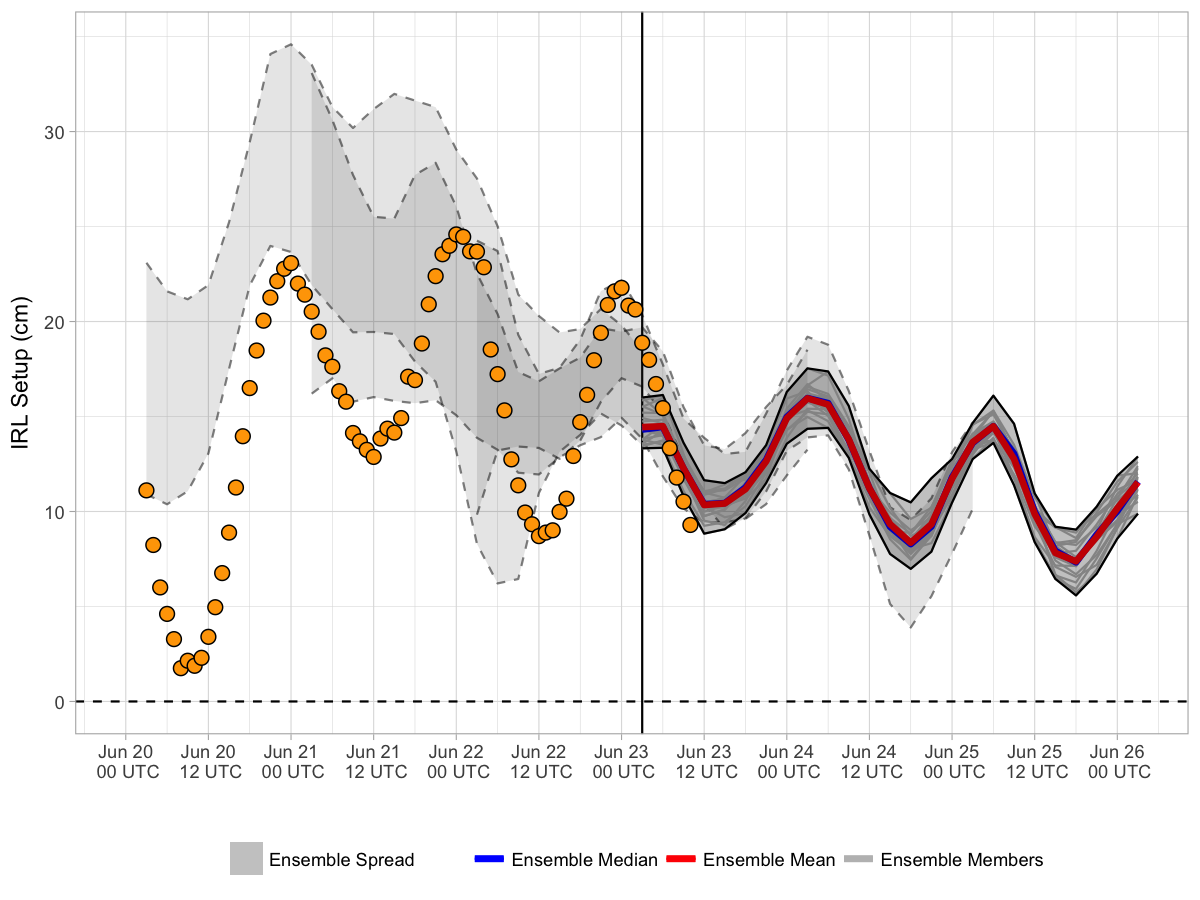
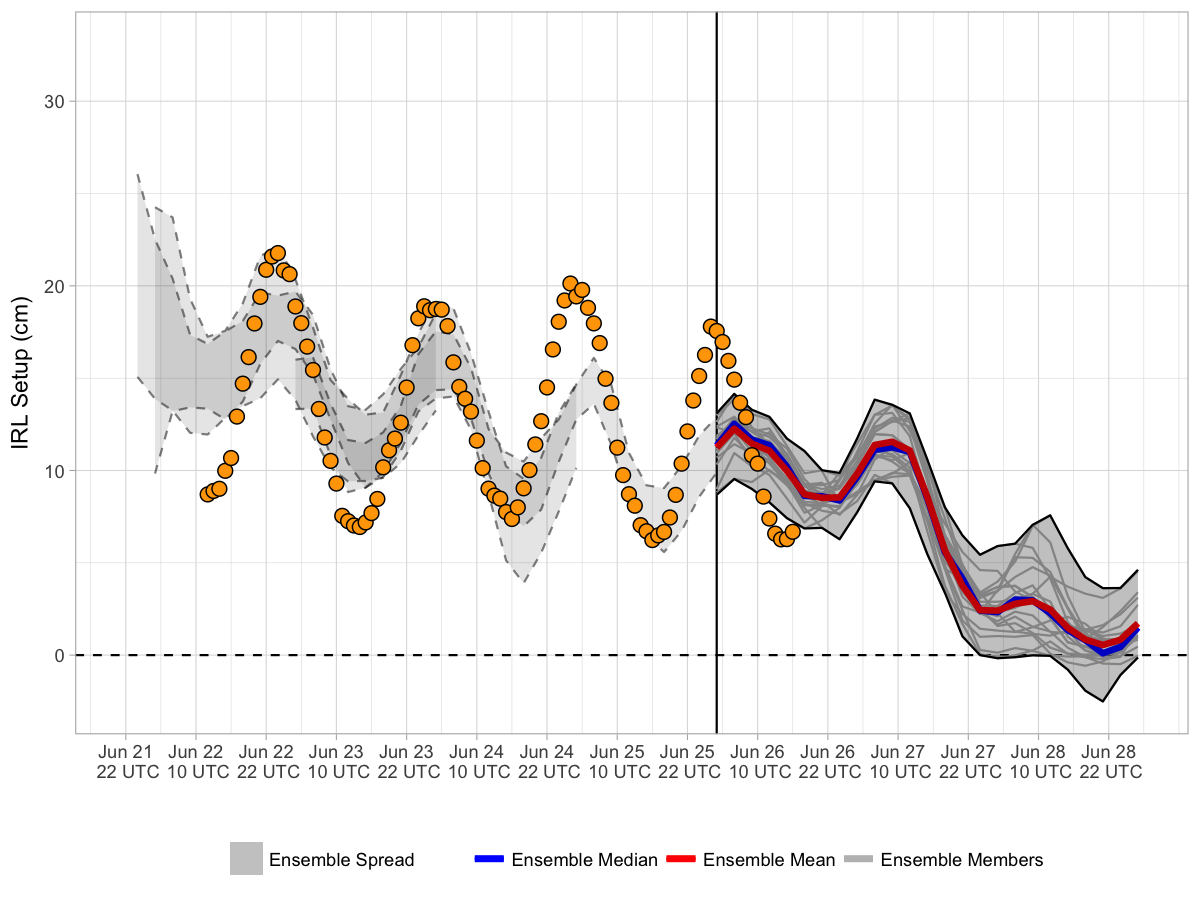
20170626 forecast update

diff --git a/docs/index.md b/docs/index.md
@@ -3,7 +3,7 @@ Current Forecast
 
 [![](img/raw_setup.png)](https://bhlmn.github.io/IRLSetup/img/raw_setup.png)
 
-> Forecast valid 2017-06-23 06:46:02.
+> Forecast valid 2017-06-26 12:24:30.
 
 Explanation
 -----------
@@ -15,7 +15,7 @@ water elevation in the northern IRL (near Titusville), and negative
 setup indicates the increase elevation in the southern IRL (near
 Sebastian). The x-axis displays the date and time in UTC. The solid
 vertical line represents the beginning of the most recent ensemble
-forecast (currently 2017-06-22 18:00:00). For this most recent forecast,
+forecast (currently 2017-06-25 18:00:00). For this most recent forecast,
 the ensemble spread (grey shading) is bound by solid black lines, with
 individual members represented by faint grey lines. The ensemble mean
 and median for this are represented by the red and blue curves,
